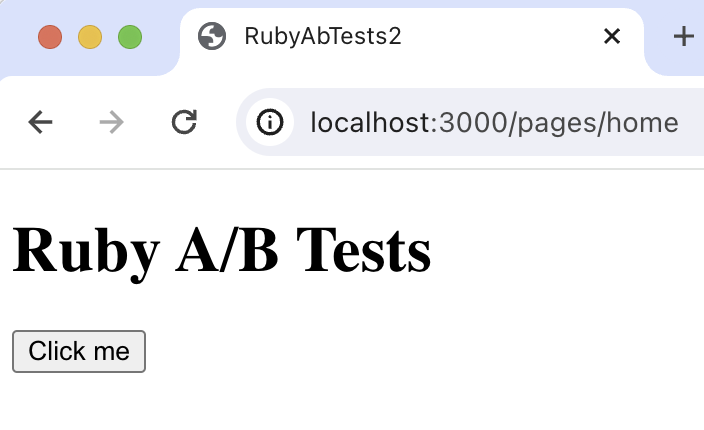
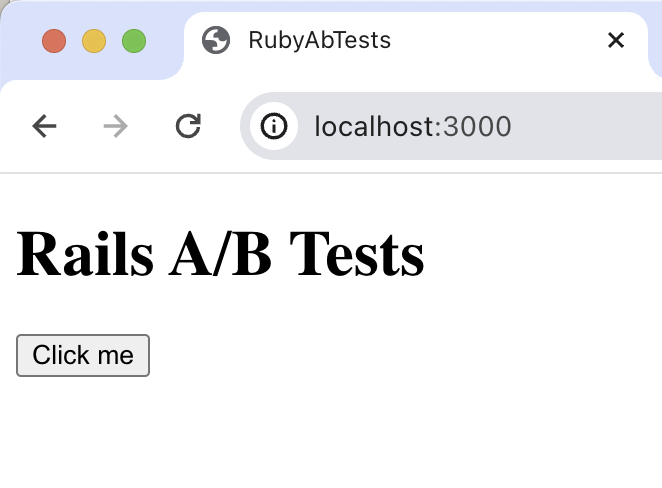
typos

diff --git a/contents/tutorials/ruby-ab-tests.md b/contents/tutorials/ruby-ab-tests.md
@@ -11,7 +11,9 @@ import EventsInPostHogDark from '../images/tutorials/ruby-ab-tests/events-dark.p
 import TestSetupLight from '../images/tutorials/ruby-ab-tests/experiment-setup-light.png'
 import TestSetupDark from '../images/tutorials/ruby-ab-tests/experiment-setup-dark.png'
 
-A/B tests help you improve your Ruby on Rails app by enabling you to compare the impact of changes on key metrics. To show you how to set one up on both the client and server side, we create a basic Rails app, add PostHog, create an A/B test, and implement the code for it.
+A/B tests help you improve your Ruby on Rails app by enabling you to compare the impact of changes on key metrics. 
+
+To show you how to set one up on both the client and server side, we create a basic Rails app, add PostHog, create an A/B test, and implement the code for it.
 
 ## 1. Create a Rails app
 
@@ -45,7 +47,7 @@ Rails.application.routes.draw do
 end
 ```
 
-Run `rails server` and navigate to `http://localhost:3000` to see your app in action.
+Run `rails server` and navigate to `http://localhost:3000` to see our app in action.
 
 ![Basic Ruby app](../images/tutorials/ruby-ab-tests/basic-app.png)
 
@@ -103,7 +105,7 @@ To measure this, we [capture a custom event](/docs/product-analytics/capture-eve
 </script>
 
 <main>
-  <h1>Ruby A/B Tests</h1>
+  <h1>Rails A/B Tests</h1>
   <button id="main-cta" onclick="handleClick()">Click me</button>
 </main>
 ```
@@ -141,7 +143,7 @@ We'll show you how to implement both.
 
 ### Client-side rendering
 
-To implement the A/B test, we fetch the `my-cool-experiment` flag using [`posthog.onFeatureFlags`](/docs/libraries/js#ensuring-flags-are-loaded-before-usage) on a `DOMContentLoaded` event listener. Then, we update the button text based on whether the user is in the `control` or `test` variant of the experiment:
+To implement the A/B test, we fetch the `my-cool-experiment` flag using [`posthog.onFeatureFlags`](/docs/libraries/js#ensuring-flags-are-loaded-before-usage) in a `DOMContentLoaded` event listener. Then, we update the button text based on whether the user is in the `control` or `test` variant of the experiment:
 
 ```html file=app/views/pages/home.html.erb
 <script>
@@ -164,7 +166,7 @@ To implement the A/B test, we fetch the `my-cool-experiment` flag using [`postho
 </script>
 
 <main>
-  <h1>Ruby A/B Tests</h1>
+  <h1>Rails A/B Tests</h1>
   <button id="main-cta" onclick="handleClick()">Click me</button>
 </main>
 ```
@@ -183,6 +185,8 @@ To set this up, we must install and use [PostHog’s Ruby SDK](/libraries/ruby) 
 gem "posthog-ruby"
 ```
 
+Then `bundle install` to install the gem.
+
 Next, we create an initializer for our PostHog client. Create a new file in `config/initializers` called `posthog.rb`. Then, initialize PostHog in this file using your project API key and host:
 
 ```ruby file=config/initializers/posthog.rb
@@ -194,7 +198,7 @@ POSTHOG_CLIENT = PostHog::Client.new({
 })
 ```
 
-Then, we implement fetching the feature flag in our controller `app/controllers/pages_controller.rb` and pass the button text to the view:
+Then, we fetch the feature flag in our controller `app/controllers/pages_controller.rb` and set the button text using the value from it:
 
 ```ruby file=app/controllers/pages_controller.rb
 class PagesController < ApplicationController
@@ -226,7 +230,7 @@ Lastly, update our view to use the `@button_text` variable from the controller:
 </script>
 
 <main>
-  <h1>Ruby A/B Test</h1>
+  <h1>Rails A/B Test</h1>
   <button id="main-cta" onclick="handleClick()"><%= @button_text %></button>
 </main>
 ```
@@ -253,9 +257,9 @@ class PagesController < ApplicationController
         distinct_id = JSON.parse(cookies[cookie_key])['distinct_id']
         enabled_variant = POSTHOG_CLIENT.get_feature_flag('my-cool-experiment', distinct_id)
         if enabled_variant == 'control'
-          @button_text = 'Control Variant'
+          @button_text = 'Control variant'
         elsif enabled_variant == 'test'
-          @button_text = 'Test Variant'
+          @button_text = 'Test variant'
         end
       rescue => e
         @button_text = 'Error'
